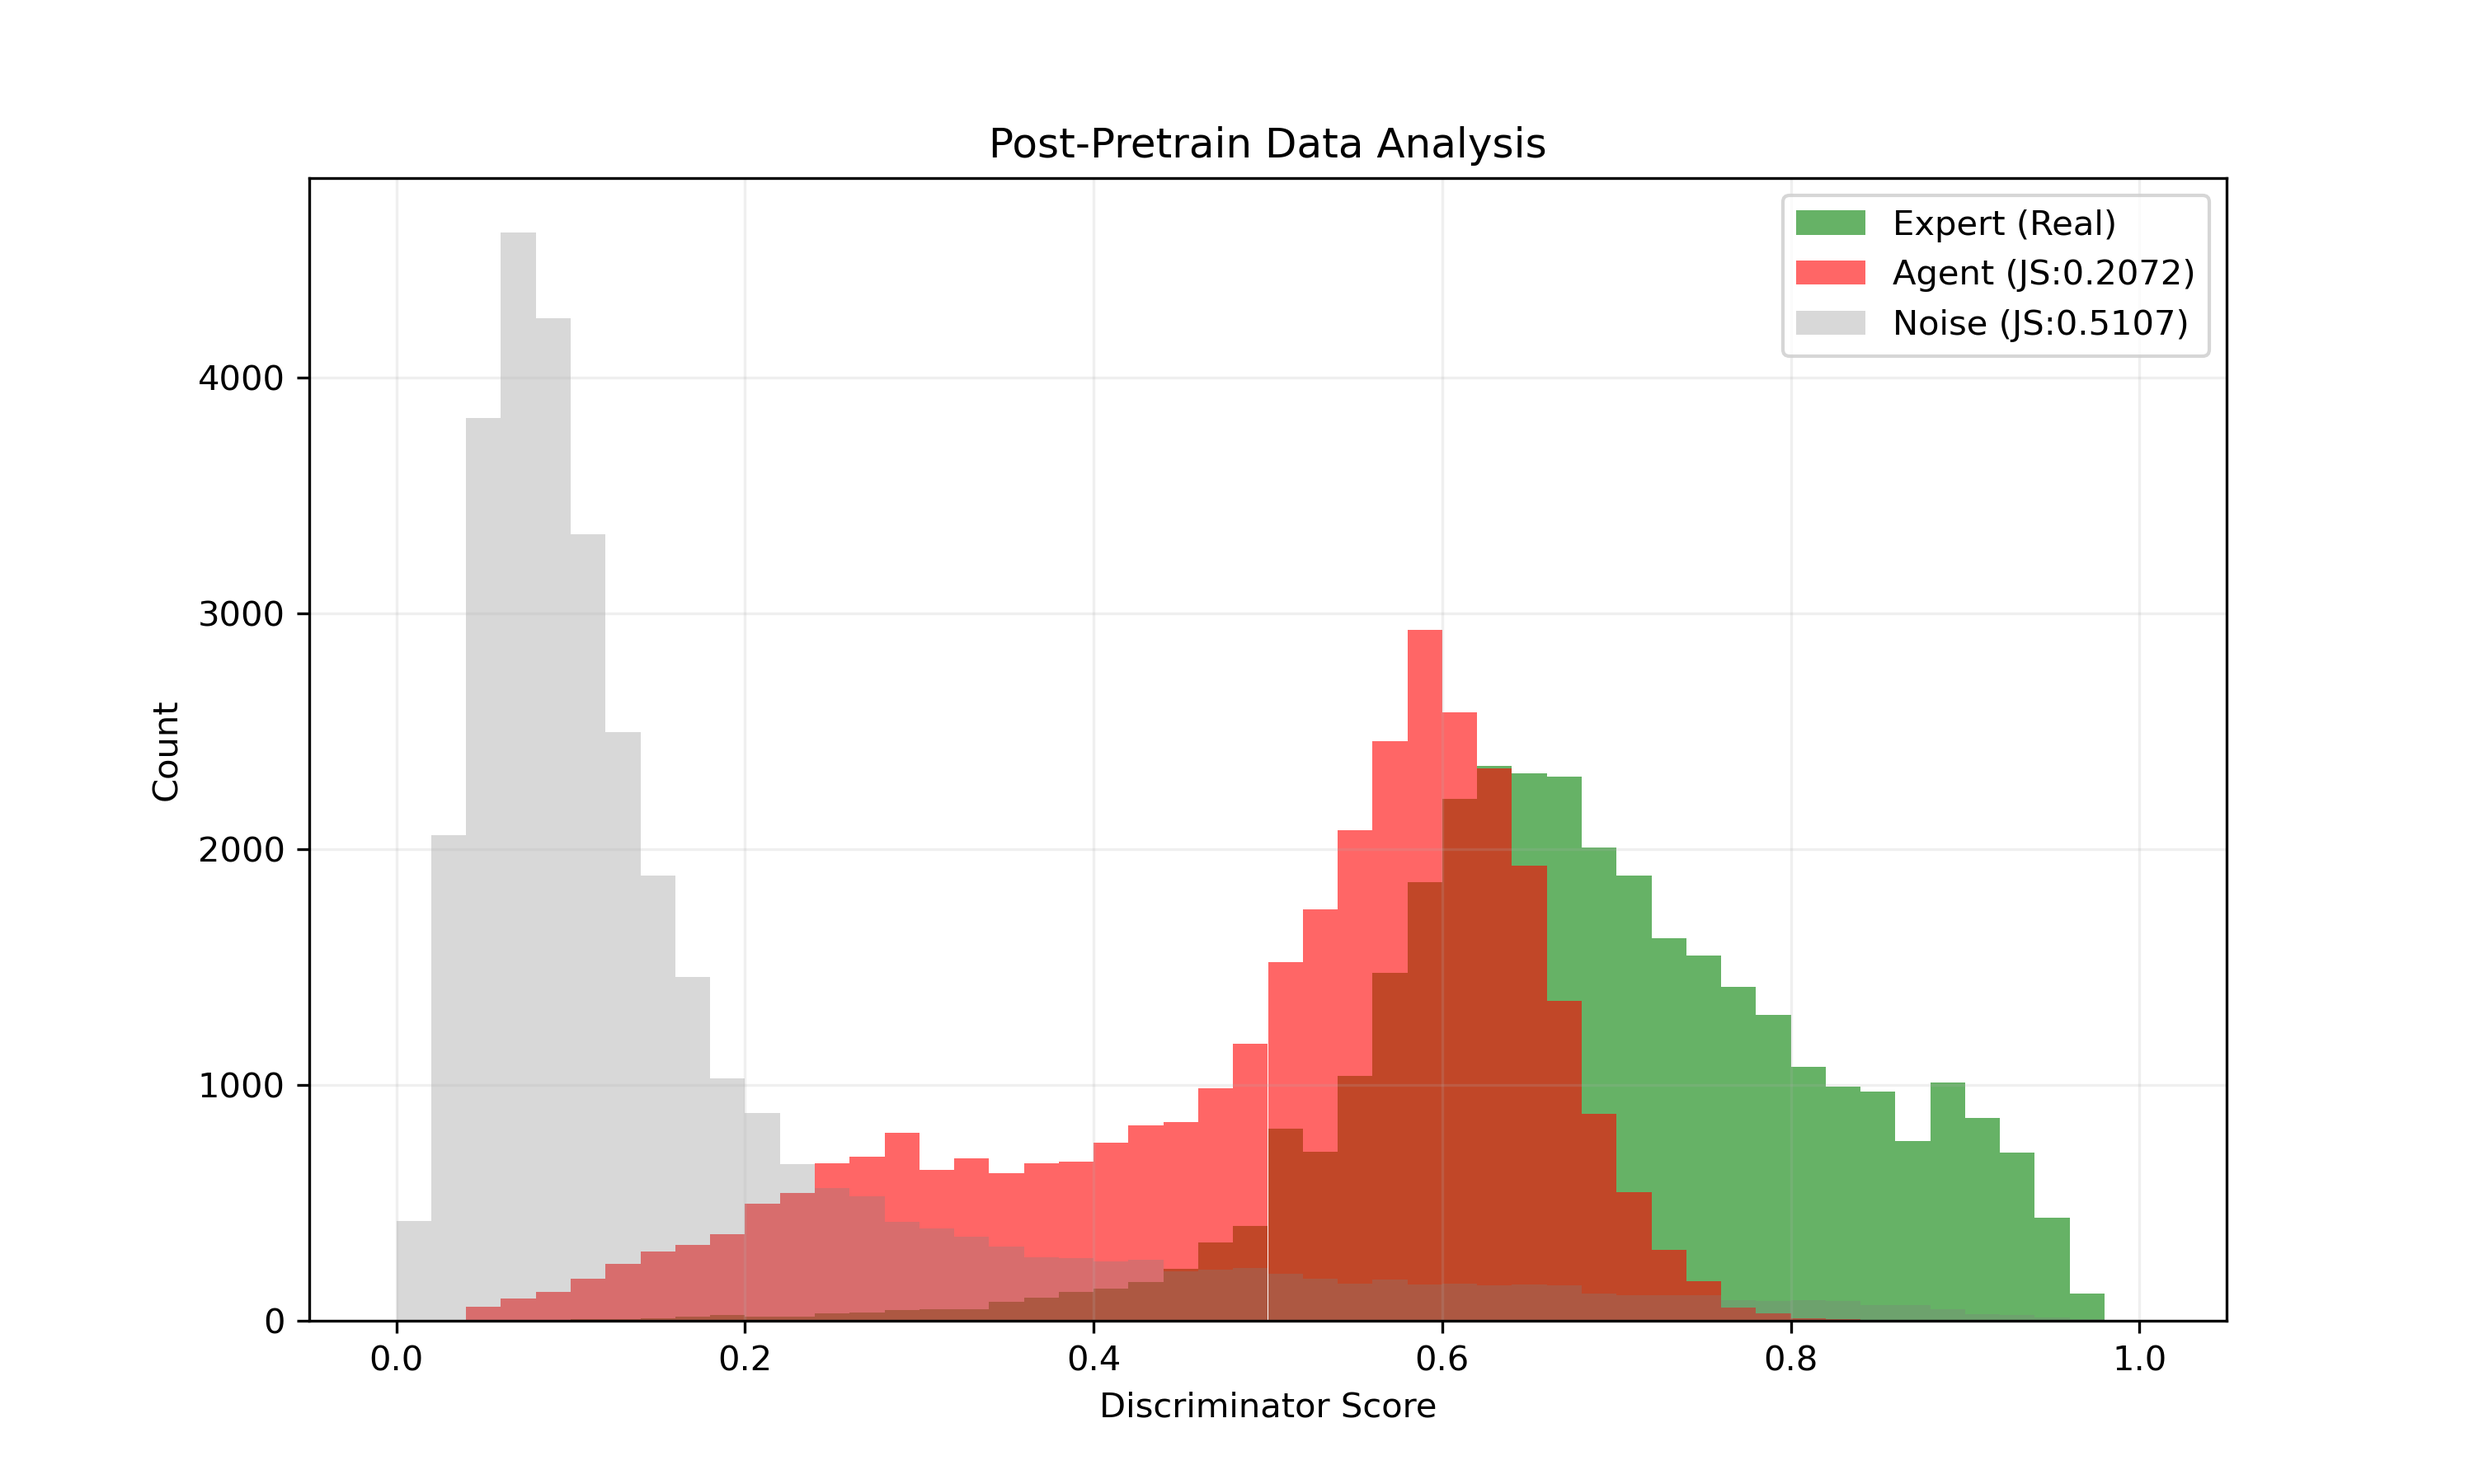
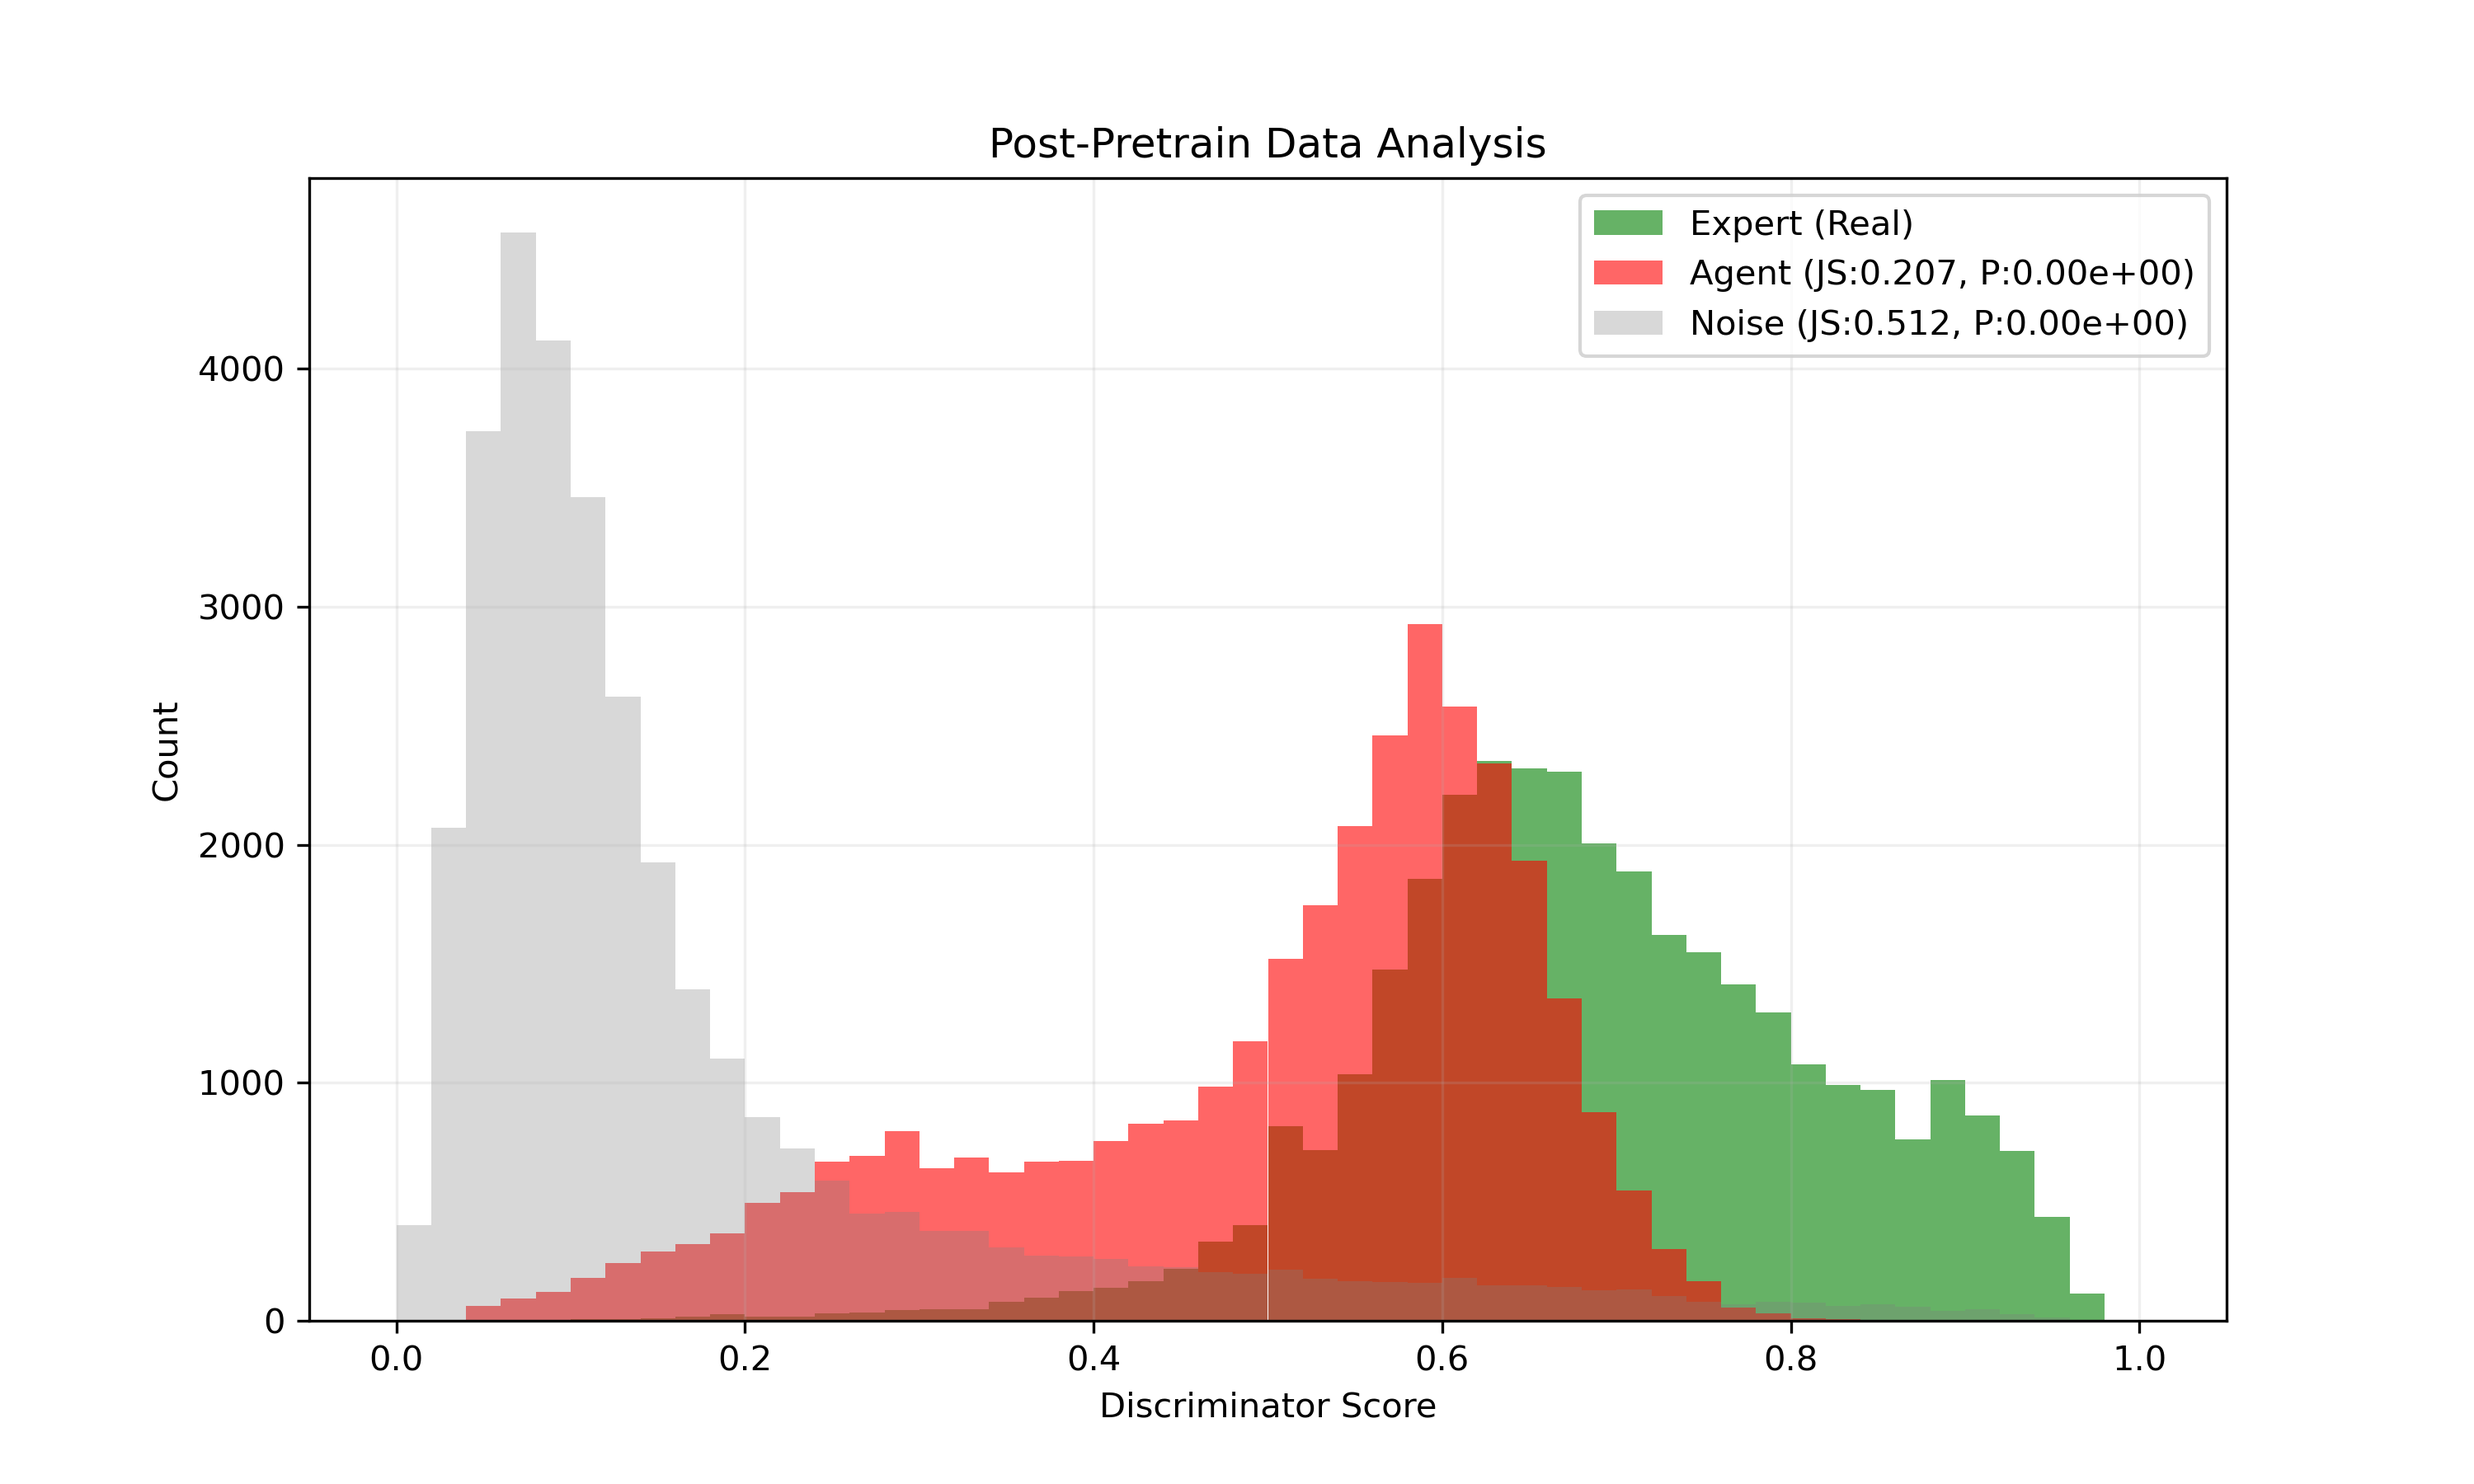
得到数据的JS散度、W距离、p值

diff --git a/real_System_remake/gail_statistical_eval.py b/real_System_remake/gail_statistical_eval.py
@@ -4,7 +4,7 @@ import torch.nn.functional as F
 import pandas as pd
 import numpy as np
 import os
-from scipy.stats import wasserstein_distance
+from scipy.stats import wasserstein_distance, ks_2samp
 from scipy.spatial import distance
 import matplotlib
 
@@ -48,29 +48,49 @@ class RealDiscriminator(nn.Module):
 
 
 # ==========================================
-# 1. 核心统计工具 (JS 散度 V2 版)
+# 1. 核心统计工具 (加入重采样 P 值计算)
 # ==========================================
-def calculate_metrics(dist1, dist2):
-    w_dist = wasserstein_distance(dist1, dist2)
-    # 使用直方图频率分布计算 JS 散度
-    p, _ = np.histogram(dist1, bins=100, range=(0, 1))
-    q, _ = np.histogram(dist2, bins=100, range=(0, 1))
-    p = p / (np.sum(p) + 1e-10)
-    q = q / (np.sum(q) + 1e-10)
-    js_div = distance.jensenshannon(p, q) ** 2
-    return w_dist, js_div
+def calculate_metrics_refined(dist_ref, dist_target, resample_size=500, n_iterations=20):
+    # 1. Wasserstein 距离
+    w_dist = wasserstein_distance(dist_ref, dist_target)
+
+    # 2. JS 散度
+    p_hist, _ = np.histogram(dist_ref, bins=100, range=(0, 1))
+    q_hist, _ = np.histogram(dist_target, bins=100, range=(0, 1))
+    p_prob = p_hist / (np.sum(p_hist) + 1e-10)
+    q_prob = q_hist / (np.sum(q_hist) + 1e-10)
+    js_div = distance.jensenshannon(p_prob, q_prob) ** 2
+
+    # 3. 重采样 KS 检验 (解决样本量过大导致 P 值失效的问题)
+    p_values = []
+    ks_stats = []
+
+    # 确保采样量不超过实际数据量
+    sample_n = min(resample_size, len(dist_ref), len(dist_target))
+
+    for _ in range(n_iterations):
+        idx_ref = np.random.choice(len(dist_ref), sample_n, replace=False)
+        idx_target = np.random.choice(len(dist_target), sample_n, replace=False)
+
+        stat, p_val = ks_2samp(dist_ref[idx_ref], dist_target[idx_target])
+        ks_stats.append(stat)
+        p_values.append(p_val)
+
+    # 取中位数作为稳健的评估指标
+    final_p = np.median(p_values)
+    final_ks = np.median(ks_stats)
+
+    return w_dist, js_div, final_p, final_ks
 
 
 def run_standalone_analysis():
     device = torch.device("cuda" if torch.cuda.is_available() else "cpu")
     current_dir = os.path.dirname(os.path.abspath(__file__))
 
-    # 2. 加载已保存的参数和模型
     print("⏳ 正在加载预训练组件...")
     try:
         rms_params = torch.load(os.path.join(current_dir, 'obs_rms_params.pth'), map_location=device)
         obs_mean, obs_var = rms_params['mean'].to(device), rms_params['var'].to(device)
-        # 核心：必须加载动作标准化参数才能复现结果
         act_mean, act_var = rms_params['act_mean'].to(device), rms_params['act_var'].to(device)
 
         actor = RealActor().to(device)
@@ -82,53 +102,62 @@ def run_standalone_analysis():
         actor.eval();
         disc.eval()
         print("✅ 组件加载完毕。")
-    except KeyError:
-        print("❌ 错误：obs_rms_params.pth 缺少 act_mean/act_var。请确保预训练脚本保存了全部参数。")
+    except Exception as e:
+        print(f"❌ 错误：{e}")
         return
 
-    # 3. 加载测试数据 (CSV 后 20%)
     df = pd.read_csv(os.path.join(current_dir, 'expert_data_production1_cleaned.csv'), header=None)
     test_raw = torch.FloatTensor(df.values[int(len(df) * 0.8):]).to(device)
     test_s, test_a = test_raw[:, :33], test_raw[:, 33:37]
 
-    # 4. 【完全复刻】数据处理逻辑
     with torch.no_grad():
-        # 状态标准化
         s_norm = torch.clamp((test_s - obs_mean) / torch.sqrt(obs_var + 1e-8), -5.0, 5.0)
-
-        # 专家得分 (Action 标准化)
         a_real_norm = (test_a - act_mean) / torch.sqrt(act_var + 1e-8)
         real_scores = torch.sigmoid(disc(s_norm, a_real_norm)).cpu().numpy().flatten()
 
-        # Agent 得分
         fake_a = actor(s_norm)
         a_fake_norm = (fake_a - act_mean) / torch.sqrt(act_var + 1e-8)
         fake_scores = torch.sigmoid(disc(s_norm, a_fake_norm)).cpu().numpy().flatten()
 
-        # Noise 得分
         noise_a = (torch.rand_like(test_a) * 2 - 1) * 0.5
         a_noise_norm = (noise_a - act_mean) / torch.sqrt(act_var + 1e-8)
         noise_scores = torch.sigmoid(disc(s_norm, a_noise_norm)).cpu().numpy().flatten()
 
-    # 5. 统计分析
-    w_fake, js_fake = calculate_metrics(real_scores, fake_scores)
-    w_noise, js_noise = calculate_metrics(real_scores, noise_scores)
+    # 执行精细化统计分析
+    w_fake, js_fake, p_fake, ks_fake = calculate_metrics_refined(real_scores, fake_scores)
+    w_noise, js_noise, p_noise, ks_noise = calculate_metrics_refined(real_scores, noise_scores)
 
-    # 6. 绘图
+    # 绘图
     plt.figure(figsize=(10, 6))
     plt.hist(real_scores, bins=50, alpha=0.6, label='Expert (Real)', color='green', range=(0, 1))
-    plt.hist(fake_scores, bins=50, alpha=0.6, label=f'Agent (JS:{js_fake:.4f})', color='red', range=(0, 1))
-    plt.hist(noise_scores, bins=50, alpha=0.3, label=f'Noise (JS:{js_noise:.4f})', color='gray', range=(0, 1))
-    plt.title('Post-Pretrain Data Analysis')
-    plt.xlabel('Discriminator Score');
-    plt.ylabel('Count');
+    plt.hist(fake_scores, bins=50, alpha=0.6, label=f'Agent (JS:{js_fake:.3f}, P:{p_fake:.2e})', color='red',
+             range=(0, 1))
+    plt.hist(noise_scores, bins=50, alpha=0.3, label=f'Noise (JS:{js_noise:.3f}, P:{p_noise:.2e})', color='gray',
+             range=(0, 1))
+    plt.title('GAIL Post-Pretrain Statistical Significance Report')
+    plt.xlabel('Discriminator Confidence Score');
+    plt.ylabel('Sample Count')
     plt.legend();
     plt.grid(True, alpha=0.2)
+    plt.axvline(np.mean(real_scores), color='darkgreen', linestyle='dashed', linewidth=2)
+    plt.axvline(np.mean(fake_scores), color='darkred', linestyle='dashed', linewidth=2)
+    plt.axvline(np.mean(noise_scores), color='darkgray', linestyle='dashed', linewidth=2)
+    plt.text(np.mean(real_scores), plt.ylim()[1] * 0.8, f'Mean Exp: {np.mean(real_scores):.2f}', color='darkgreen')
+    plt.text(np.mean(fake_scores), plt.ylim()[1] * 0.7, f'Mean Agent: {np.mean(fake_scores):.2f}', color='darkred')
+    plt.text(np.mean(noise_scores), plt.ylim()[1] * 0.8, f'Mean Noise: {np.mean(noise_scores):.2f}', color='darkgray')
 
-    plt.savefig(os.path.join(current_dir, 'analysis_report.png'), dpi=300)
-    print(f"\n📊 分析完成！报告已保存。")
-    print(f"🔹 JS Divergence: Agent({js_fake:.4f}) | Noise({js_noise:.4f})")
-    print(f"🔹 Wasserstein:    Agent({w_fake:.4f}) | Noise({w_noise:.4f})")
+    plt.savefig(os.path.join(current_dir, 'analysis_report_pvalue.png'), dpi=300)
+
+    print(f"\n📊 分析完成！报告已保存至 analysis_report_pvalue.png")
+    print("-" * 50)
+    print(f"🔹 【Agent vs Expert】 JS: {js_fake:.4f} | W-Dist: {w_fake:.4f} | KS-Dist: {ks_fake:.4f}")
+    print(f"🔹 【Noise vs Expert】 JS: {js_noise:.4f} | W-Dist: {w_noise:.4f} | KS-Dist: {ks_noise:.4f}")
+    print("-" * 50)
+    print(f"🧪 统计显著性校验 (基于重采样):")
+    print(f"🟢 Agent 相似性 P-value: {p_fake:.4e} " + (
+        "(统计学不可区分 - 极佳)" if p_fake > 0.05 else "(存在分布细节差异)"))
+    print(f"⚪ Noise 相似性 P-value: {p_noise:.4e} " + (
+        "(判别器失效 - 需检查)" if p_noise > 0.05 else "(显著异源 - 达标)"))
 
 
 if __name__ == '__main__':
